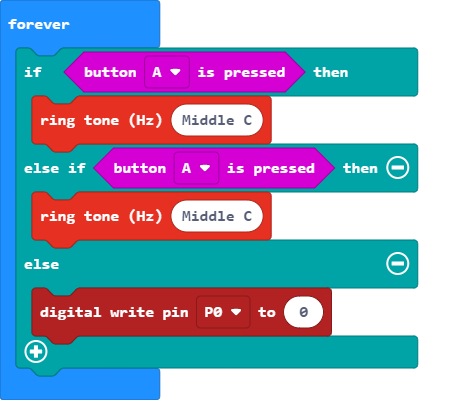
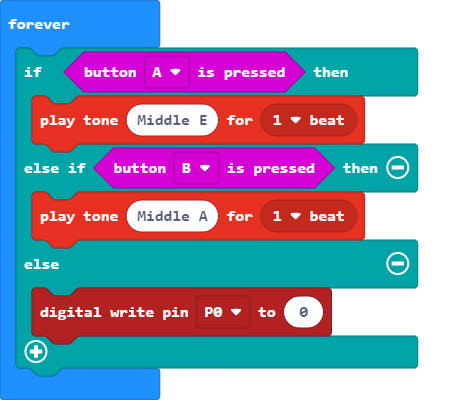
Update main.blocks, main.ts

diff --git a/main.ts b/main.ts
@@ -1,8 +1,8 @@
 basic.forever(function () {
     if (input.buttonIsPressed(Button.A)) {
-        music.ringTone(262)
-    } else if (input.buttonIsPressed(Button.A)) {
-        music.ringTone(262)
+        music.playTone(330, music.beat(BeatFraction.Whole))
+    } else if (input.buttonIsPressed(Button.B)) {
+        music.playTone(440, music.beat(BeatFraction.Whole))
     } else {
         pins.digitalWritePin(DigitalPin.P0, 0)
     }
